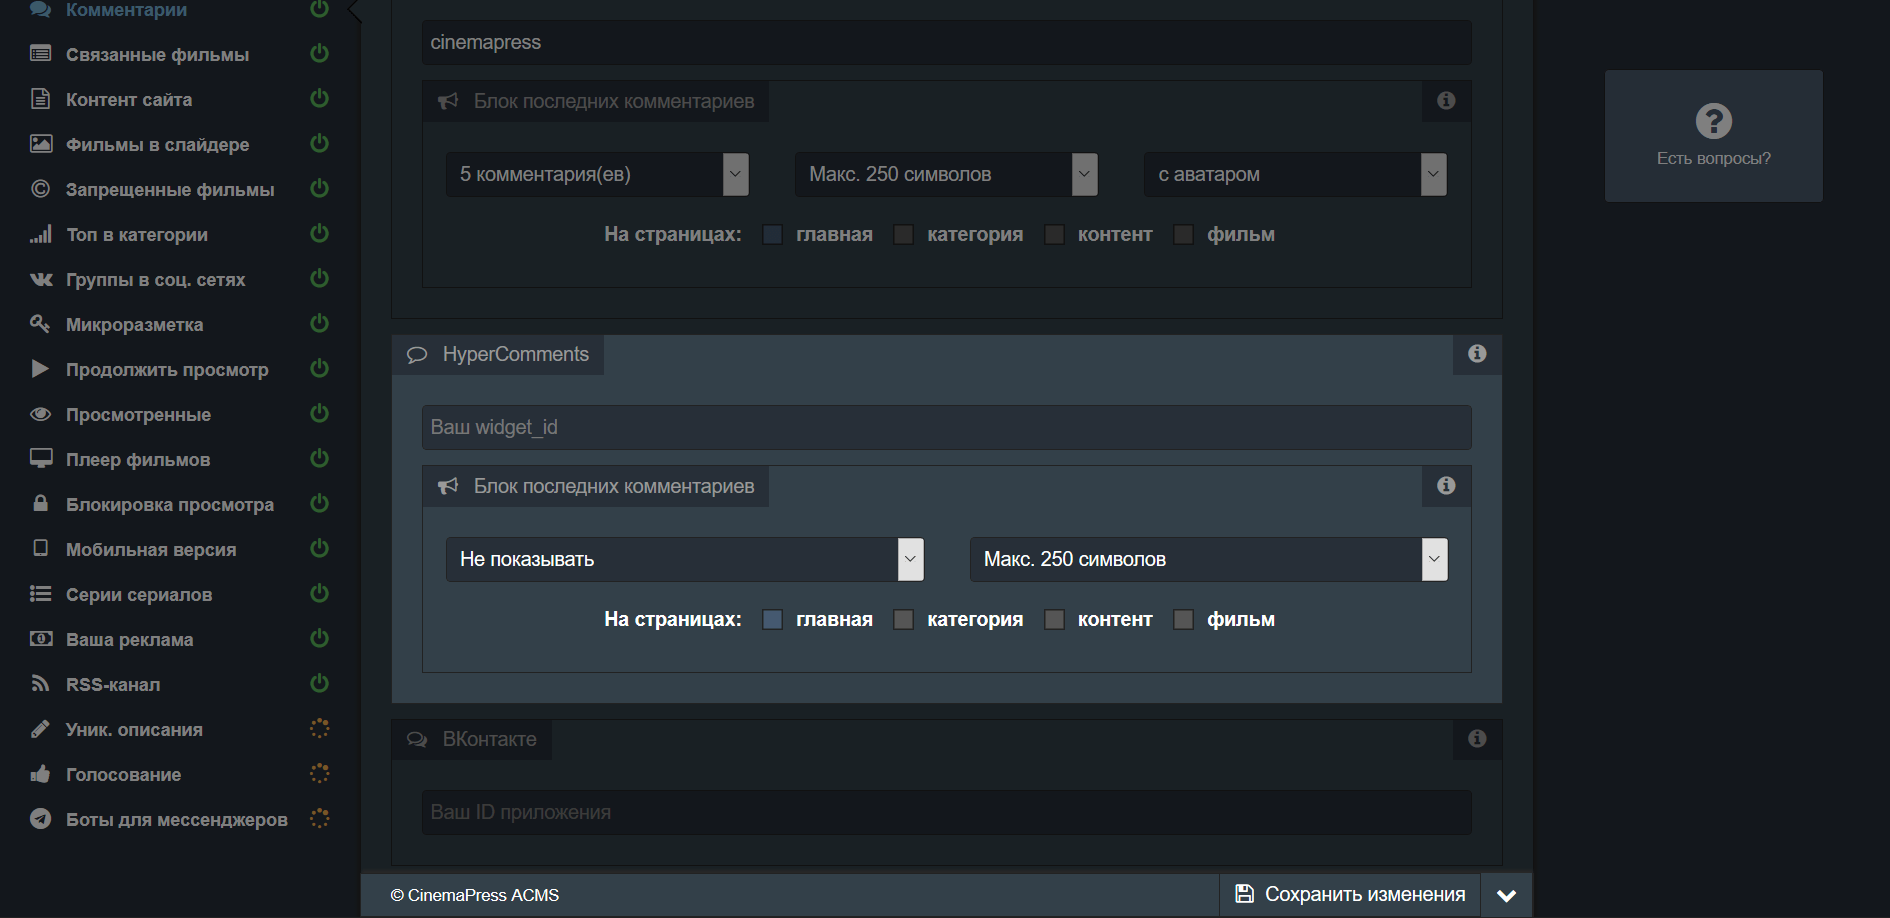
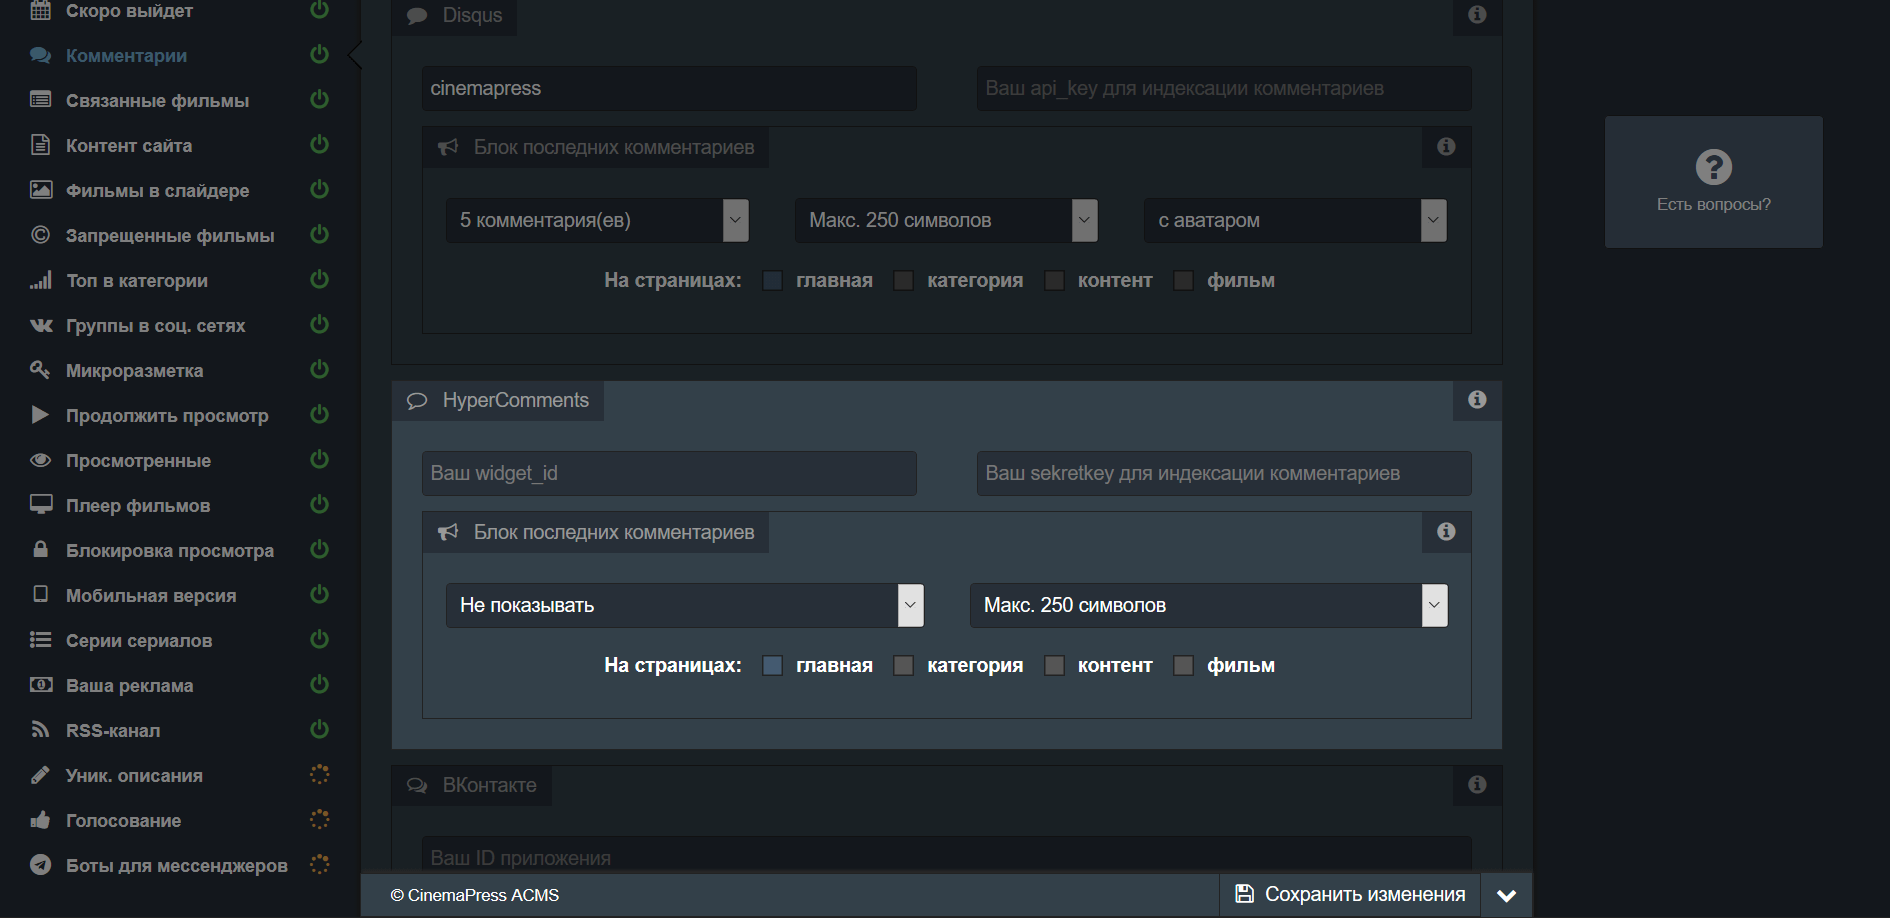
Add auto collections, updates, hard_restart

diff --git a/article/forum.html b/article/forum.html
@@ -94,6 +94,45 @@
             <div class="col-sm-12">
                 <div class="example-box" style="background: none">
                     <div class="example-box-header">
+                        <div class="example-label"><i class="fa fa-diamond"></i>&nbsp;&nbsp;&nbsp;Обновления на 15.11.2017</div>
+                    </div>
+                    <div class="inner-padding">
+                        <div class="row">
+                            <div class="col-md-6 text-justify pb-20">
+                                1. Улучшен модуль «<a href="/admin/comments.html" target="_blank">Комментарии</a>», теперь комментарии на странице фильма от виджетов Disqus и HyperComments - индексируются поисковыми системами. Для этого Вам нужно указать API-ключ, который Вы получите в панели управления Disqus и HyperComments.
+                            </div>
+                            <div class="col-md-6 pb-20">
+                                <img src="/images/admin/comments/indexer.png" class="img-responsive" alt="Индексация комментариев Disqus и HyperComments" data-action="zoom">
+                            </div>
+                        </div>
+                        <div class="row">
+                            <div class="col-md-6 text-justify pb-20">
+                                2. Улучшен модуль «<a href="/admin/content.html" target="_blank">Коллекции</a>», добавлена функция автоматического наполнения коллекций фильмами и сериалами, которые были последними обновлены на видео-хостингах. Таким образом, выводя фильмы из автоматической коллекции на главной странице сайта, Вы сделаете её ежечасно обновляемой новым контентом. Новые фильмы/сериалы будут выстраиваться в порядке их добавления на всех видео-хостингах.
+                            </div>
+                            <div class="col-md-6 pb-20">
+                                <img src="/images/admin/content/auto.png" class="img-responsive" alt="Автоматические коллекции фильмов" data-action="zoom">
+                            </div>
+                        </div>
+                        <div class="row">
+                            <div class="col-md-6 text-justify pb-20">
+                                3. Добавлена возможность <a href="/article/vse-o-serverah.html#spam" target="_blank">запретить доступ к сайту из определенной страны</a>. На Ваш сайт по умолчанию могут заходить пользователи из любых уголков планеты. Однако, есть страны, такие как Китай, Индия, Вьетнам и т.п., пользователи из которых не представляют интереса для Ваших рекламодателей, потому реклама не выкупается. Это одна причина их запретить, другая же причина заключается в том, что из этих стран зачастую может идти довольно «плохой» трафик. Это могут быть боты, атаки, спам и т.п. Потому, чтобы уберечь сайт от подобных нерациональных нагрузок, можно одной командой запретить все страны, кроме 30 шт., которые дают 99.99% всего кинотрафика рунета.
+                            </div>
+                            <div class="col-md-6 pb-20">
+                                <img src="/images/vps/spam.png" class="img-responsive" alt="Запретить доступ к сайту из определенной страны" data-action="zoom">
+                            </div>
+                        </div>
+                    </div>
+                </div>
+            </div>
+        </div>
+    </div>
+</section>
+<section style="background: none" class="ptb-10">
+    <div class="container">
+        <div class="row">
+            <div class="col-sm-12">
+                <div class="example-box" style="background: none">
+                    <div class="example-box-header">
                         <div class="example-label"><i class="fa fa-diamond"></i>&nbsp;&nbsp;&nbsp;Обновления на 03.11.2017</div>
                     </div>
                     <div class="inner-padding">

diff --git a/admin/content.html b/admin/content.html
@@ -653,7 +653,61 @@
         </div>
     </div>
 </section>
-<section class="ptb-100 functionalities bg-gray" id="add">
+<section class="ptb-100 functionalities bg-gray" id="moonwalk">
+    <div class="container">
+        <div class="row">
+            <div class="col-md-7 col-sm-6 col-xs-12">
+                <div class="main-title">
+                    <h3><a href="#moonwalk">Обновления фильмов/сериалов (Moonwalk)</a></h3>
+                    <div class="seperator"></div>
+                </div>
+                <p class="text-justify">
+                    Все новые обновления на этом видео-хостинге будут добавлены в выбранную Вами коллекцию автоматически каждый час. У всех видео хостингов можно указать одинаковую коллекцию. Таким образом, если к примеру выйдет из строя один из видео-хостингов, остальные два наполняет коллекцию новыми фильмами/сериалами в любом случае.
+                </p>
+            </div>
+            <div class="col-md-5 col-sm-6 col-xs-12">
+                <img src="/images/admin/content/moonwalk.png" class="img-responsive" alt="Обновления фильмов/сериалов (Moonwalk)" data-action="zoom">
+            </div>
+        </div>
+    </div>
+</section>
+<section class="ptb-100 functionalities bg-white" id="hdgo">
+    <div class="container">
+        <div class="row">
+            <div class="col-md-7 col-sm-6 col-xs-12">
+                <div class="main-title">
+                    <h3><a href="#hdgo">Обновления фильмов/сериалов (Hdgo)</a></h3>
+                    <div class="seperator"></div>
+                </div>
+                <p class="text-justify">
+                    Все новые обновления на этом видео-хостинге будут добавлены в выбранную Вами коллекцию автоматически каждый час. У всех видео хостингов можно указать одинаковую коллекцию. Таким образом, если к примеру выйдет из строя один из видео-хостингов, остальные два наполняет коллекцию новыми фильмами/сериалами в любом случае.
+                </p>
+            </div>
+            <div class="col-md-5 col-sm-6 col-xs-12">
+                <img src="/images/admin/content/hdgo.png" class="img-responsive" alt="Обновления фильмов/сериалов (Hdgo)" data-action="zoom">
+            </div>
+        </div>
+    </div>
+</section>
+<section class="ptb-100 functionalities bg-gray" id="kodik">
+    <div class="container">
+        <div class="row">
+            <div class="col-md-7 col-sm-6 col-xs-12">
+                <div class="main-title">
+                    <h3><a href="#kodik">Обновления фильмов/сериалов (Kodik)</a></h3>
+                    <div class="seperator"></div>
+                </div>
+                <p class="text-justify">
+                    Все новые обновления на этом видео-хостинге будут добавлены в выбранную Вами коллекцию автоматически каждый час. У всех видео хостингов можно указать одинаковую коллекцию. Таким образом, если к примеру выйдет из строя один из видео-хостингов, остальные два наполняет коллекцию новыми фильмами/сериалами в любом случае.
+                </p>
+            </div>
+            <div class="col-md-5 col-sm-6 col-xs-12">
+                <img src="/images/admin/content/kodik.png" class="img-responsive" alt="Обновления фильмов/сериалов (Kodik)" data-action="zoom">
+            </div>
+        </div>
+    </div>
+</section>
+<section class="ptb-100 functionalities bg-white" id="add">
     <div class="container">
         <div class="row">
             <div class="col-md-7 col-sm-6 col-xs-12">

diff --git a/article/vse-o-serverah.html b/article/vse-o-serverah.html
@@ -212,6 +212,8 @@
                     <code>~# wget cinemapress.org/i -qO i && chmod +x i && ./i light_restart</code><br>
                     <strong>Команда для полной перезагрузки сайта (рекомендуется сделать перед этим бэкап):</strong><br>
                     <code>~# wget cinemapress.org/i -qO i && chmod +x i && ./i restart</code><br>
+                    <strong>Команда для полной перезагрузки с удалением процесса (рекомендуется сделать перед этим бэкап):</strong><br>
+                    <code>~# wget cinemapress.org/i -qO i && chmod +x i && ./i hard_restart</code><br>
                     <small><a href="/article/kak-ustanovit-cinemapress-acms.html#error" target="_blank">запасные сервера</a></small>
                 </p>
             </div>
@@ -241,16 +243,16 @@
         </div>
     </div>
 </section>
-<section class="ptb-100 functionalities bg-gray" id="attack">
+<section class="ptb-100 functionalities bg-gray" id="spam">
     <div class="container">
         <div class="row">
             <div class="col-md-7 col-sm-6 col-xs-12">
                 <div class="main-title">
-                    <h3><a href="#attack">Сайт под атакой и не открывается, что делать?</a></h3>
+                    <h3><a href="#spam">Как запретить доступ к сайту из определенной страны (Китай, Индия, и т.п.)?</a></h3>
                     <div class="seperator"></div>
                 </div>
                 <p class="text-justify">
-                    Для начала убедитесь, что действительно идет атака/спам/боты и т.п., выполните по SSH:<br>
+                    Для начала убедитесь, что действительно идет атака/спам/боты и т.п. из определенной страны, выполните по SSH:<br>
                     <code>~# tail -f /var/log/nginx/access.log</code><br>
                     Чтобы выйти нажмите <code>Ctrl+C</code><br>
                     Видите много появляющихся запросов похожие друг на друга? Выберите несколько IP адресов (слева каждой строчки) и проверьте их через сервис, например:<br>
@@ -268,7 +270,7 @@
                 </p>
             </div>
             <div class="col-md-5 col-sm-6 col-xs-12">
-                <img src="/images/vps/attack.png" class="img-responsive" alt="Сайт под атакой и не открывается, что делать?" data-action="zoom">
+                <img src="/images/vps/spam.png" class="img-responsive" alt="Как запретить доступ к сайту из определенной страны (Китай, Индия, и т.п.)?" data-action="zoom">
             </div>
         </div>
     </div>
